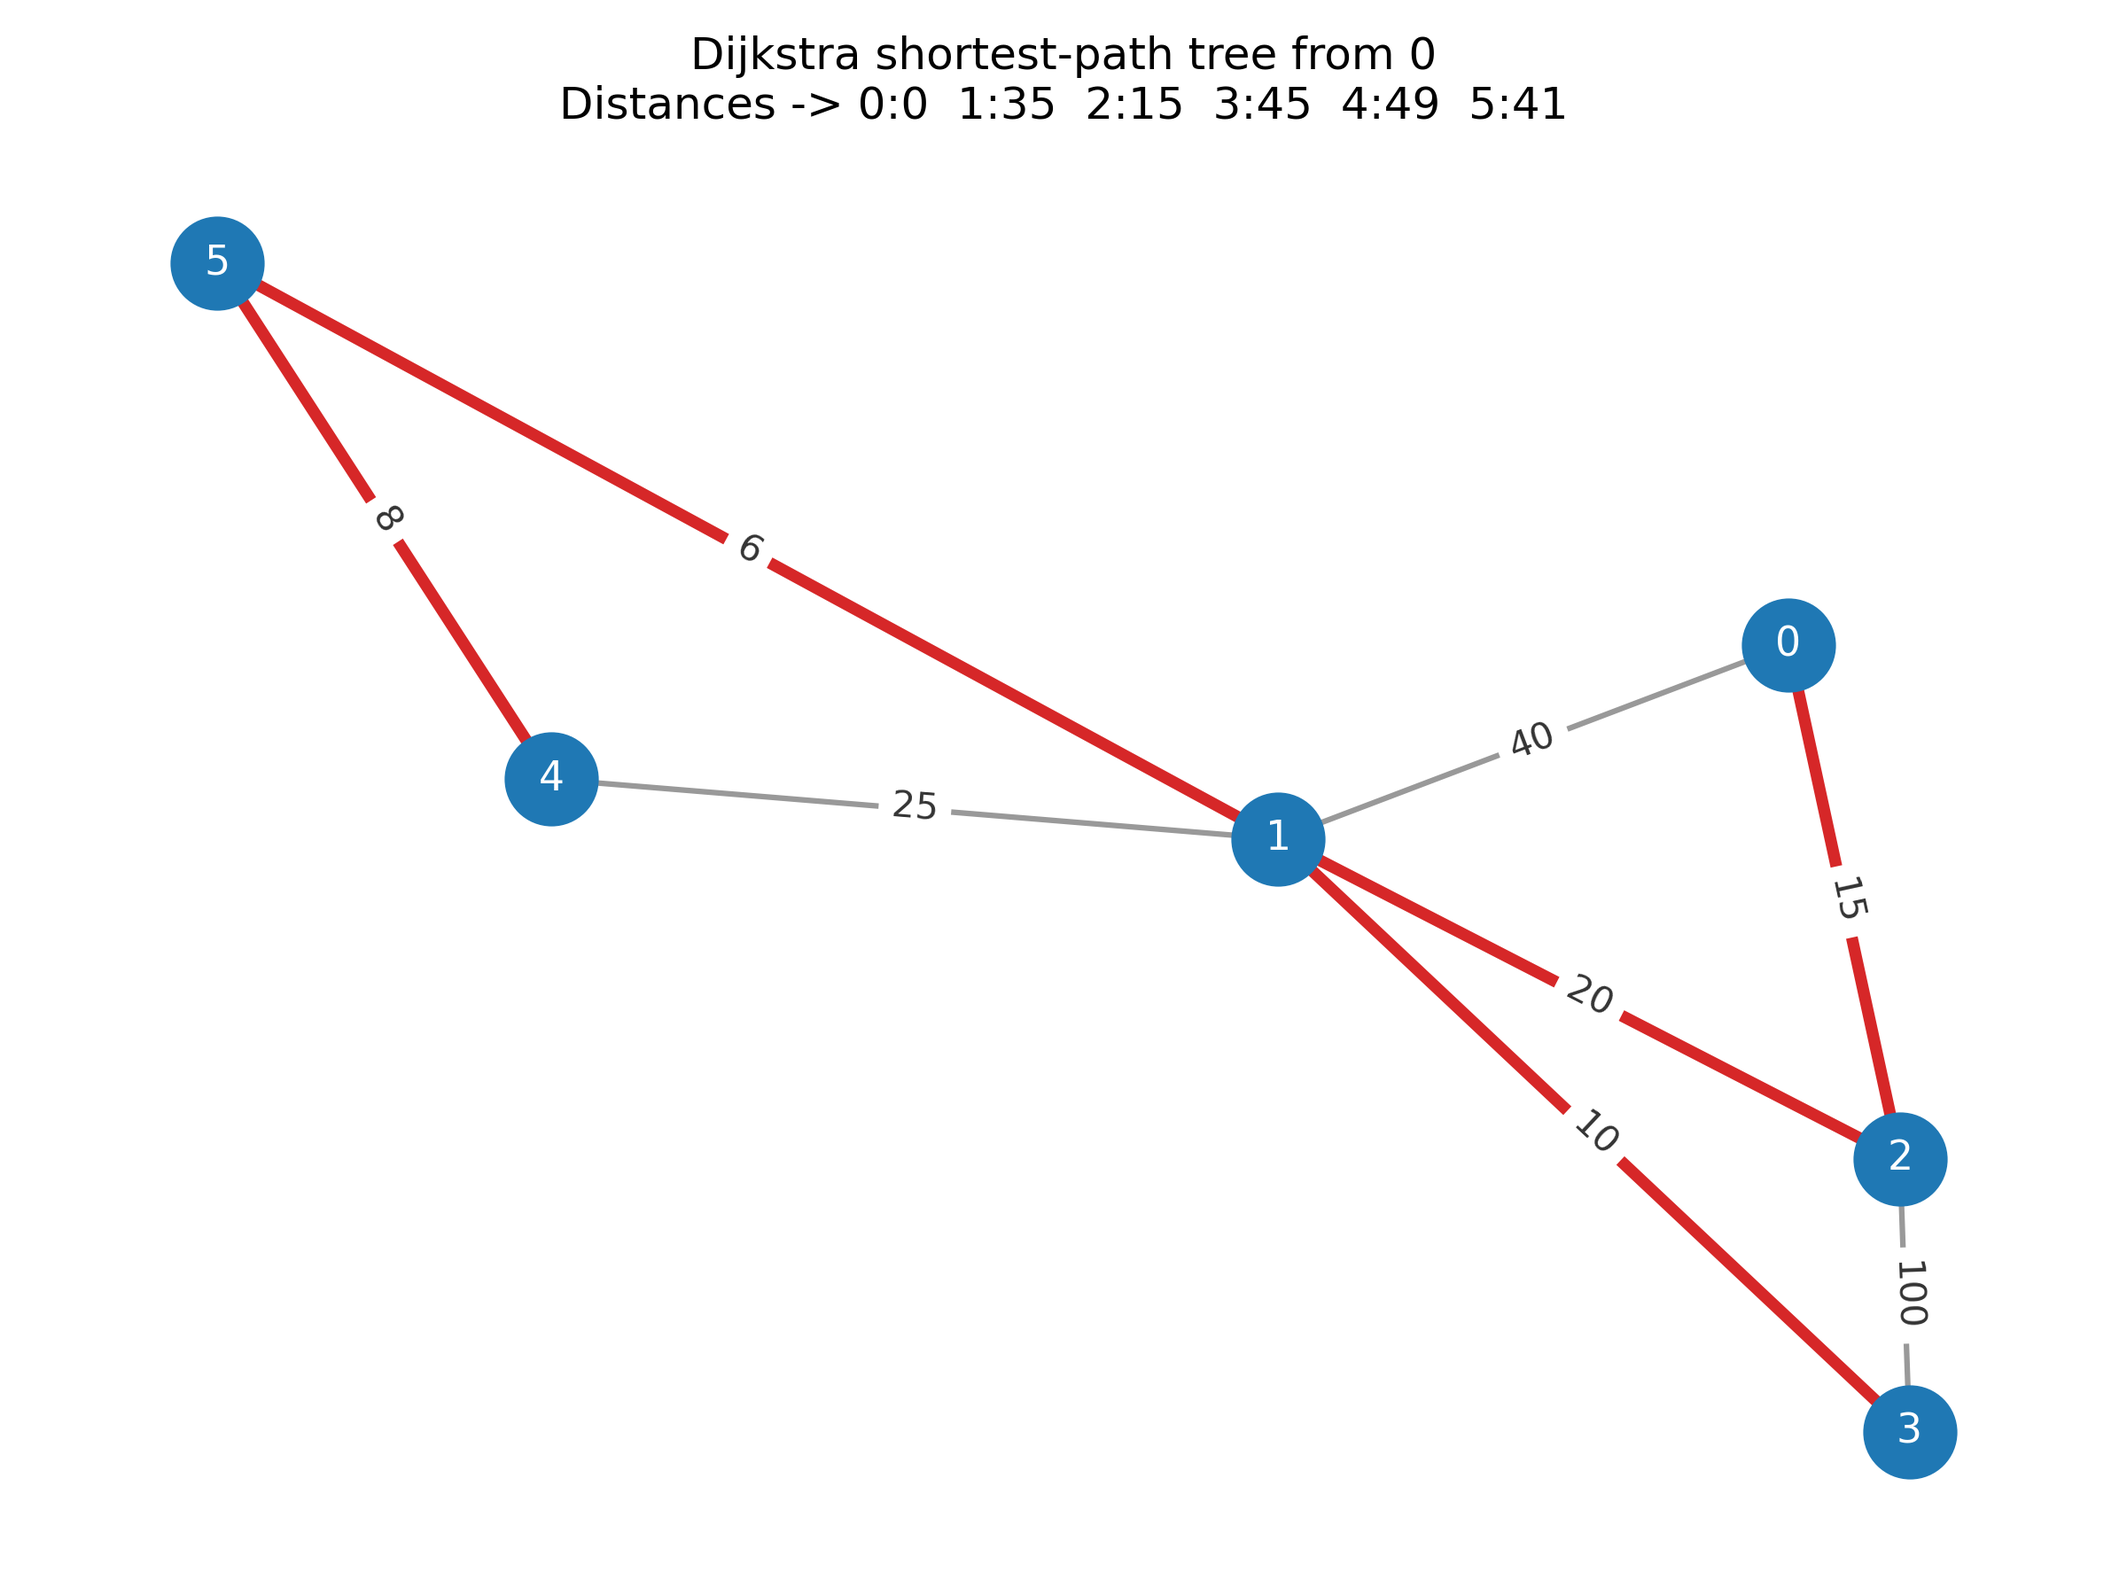
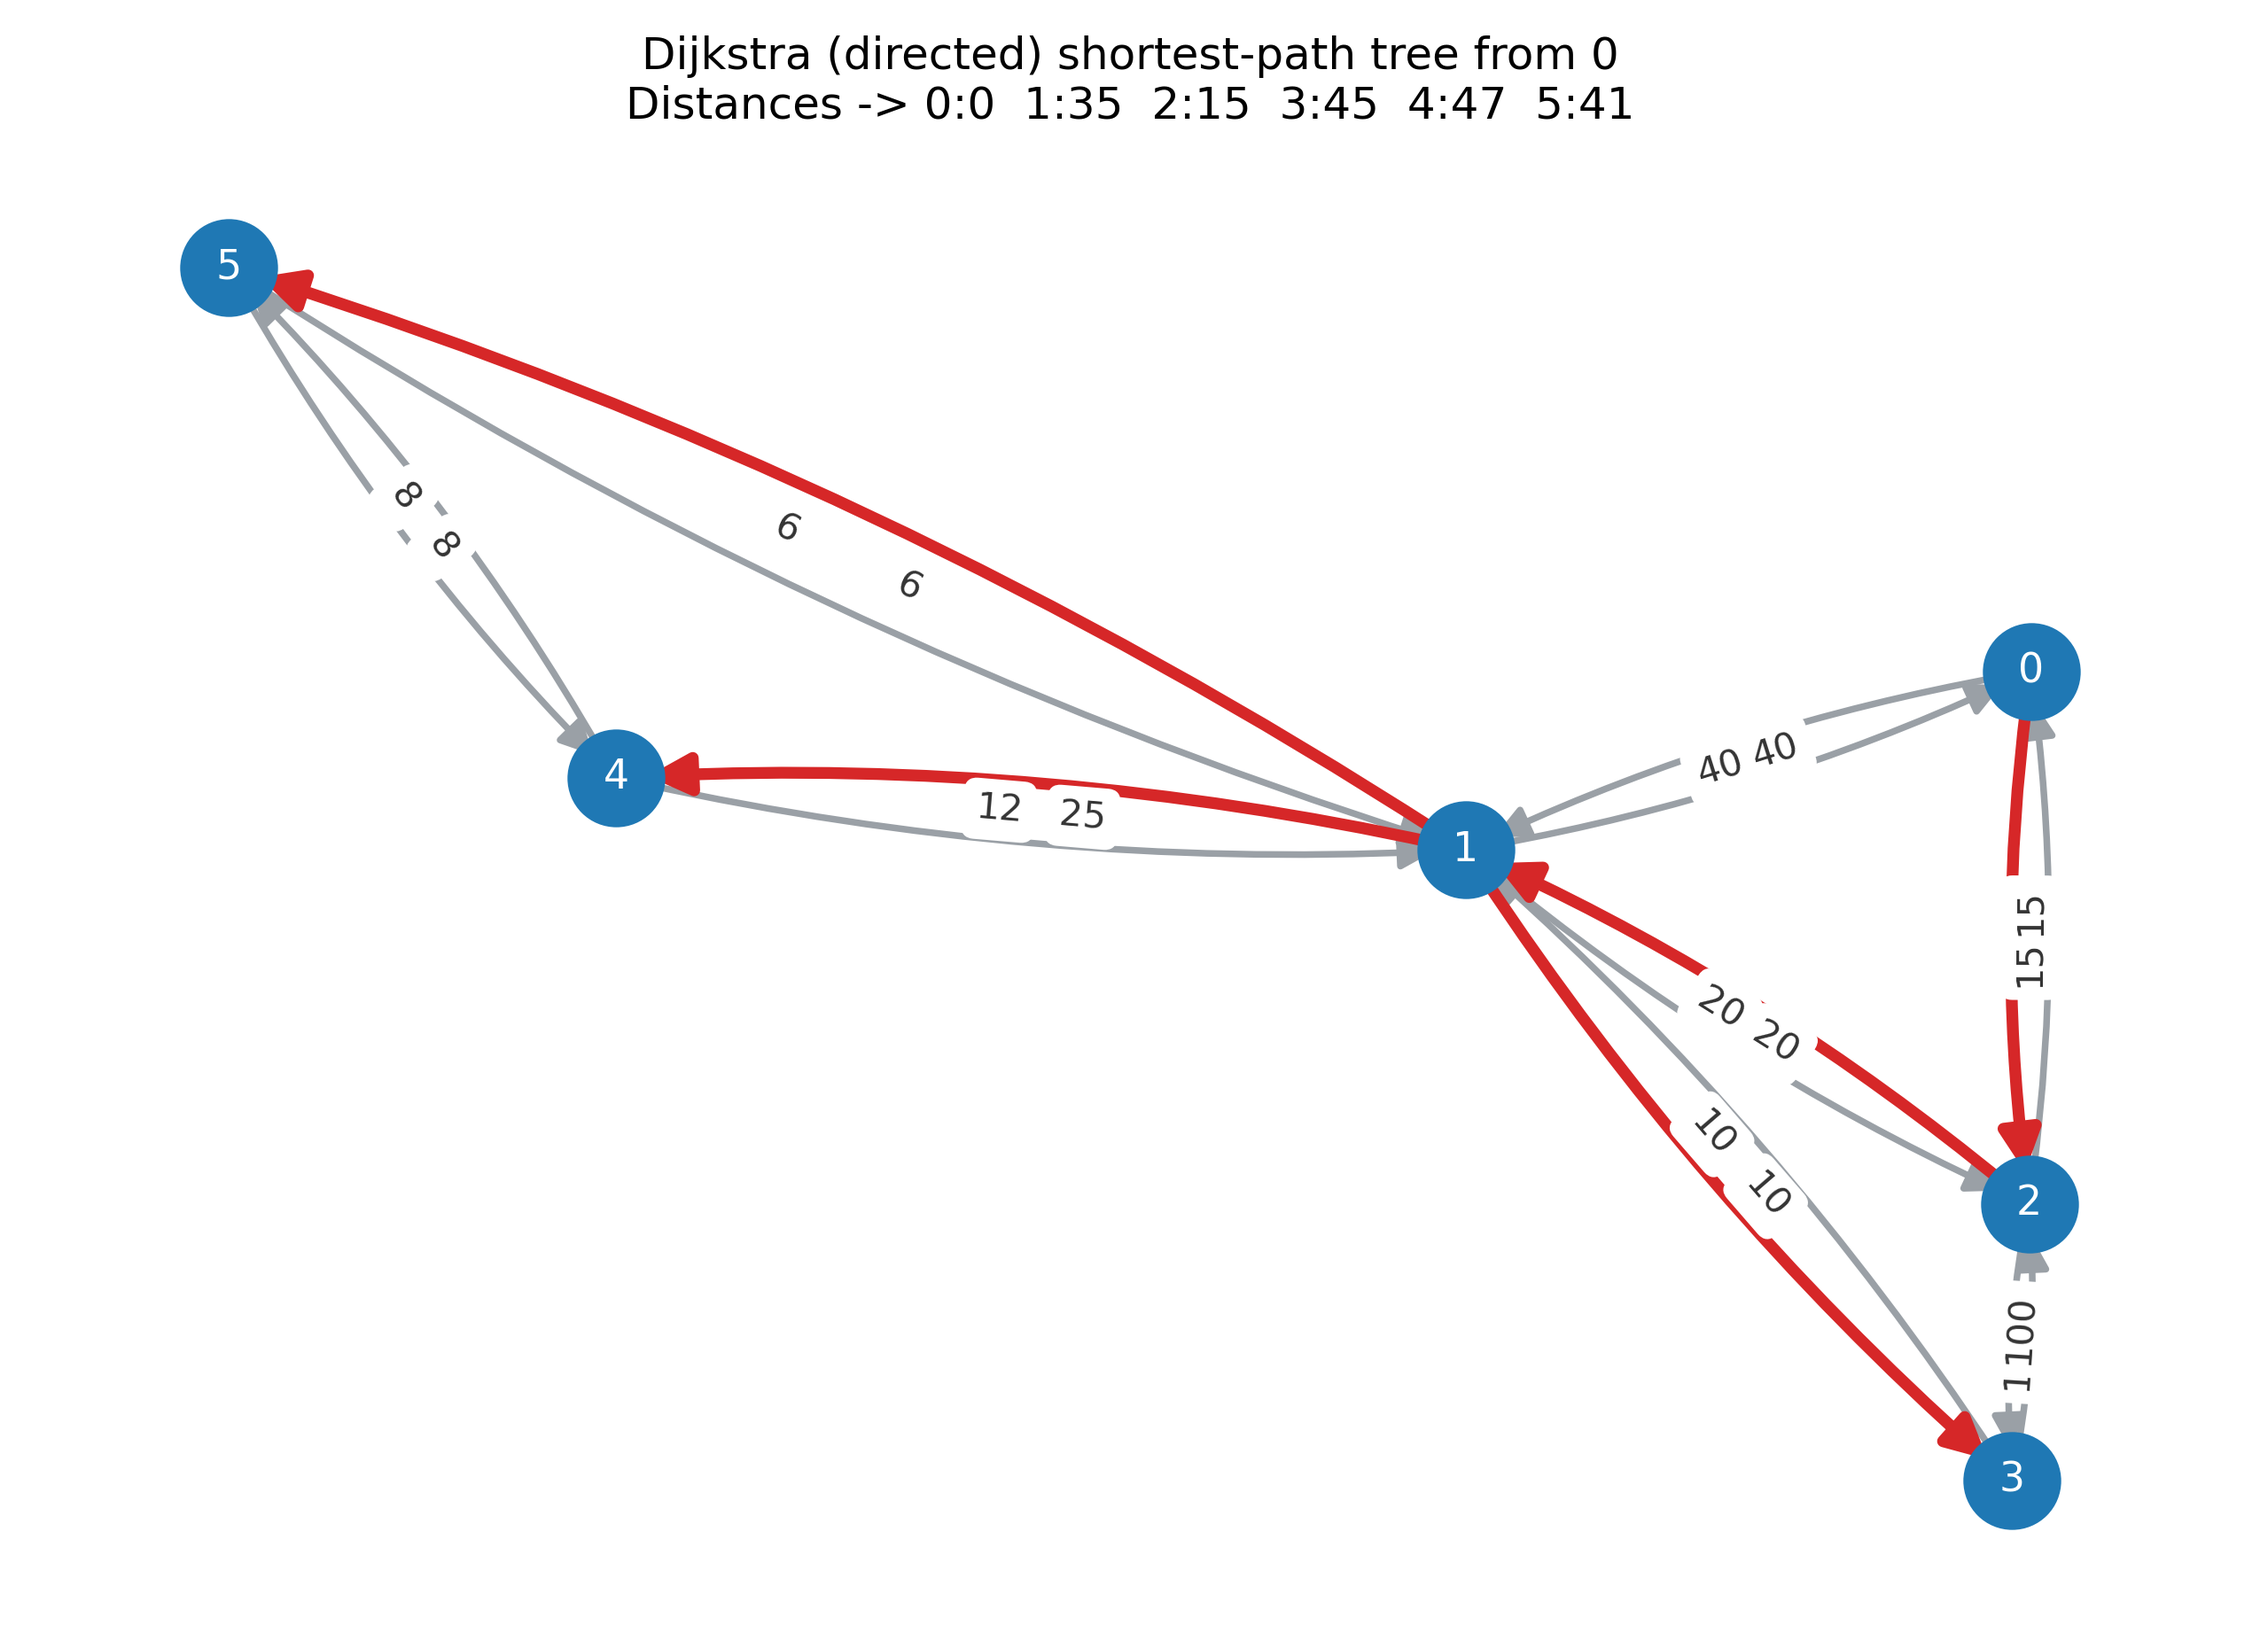
graph

Changed region(s): [[0.0938, 0.1244, 0.9375, 0.9333], [0.25, 0.0, 0.7188, 0.0933], [0.4375, 0.3422, 0.4688, 0.3733]]

diff --git a/dijkstra/dijkstra_graph_direction.py b/dijkstra/dijkstra_graph_direction.py
@@ -1,0 +1,115 @@
+#!/usr/bin/env python3
+# -*- coding: utf-8 -*-
+import math, heapq
+import numpy as np
+import matplotlib.pyplot as plt
+
+INF = math.inf
+
+# ---- あなたの OHD（非対称＝有向）を貼る ----
+OHD = np.array(
+    [
+        #  0    1    2    3    4    5
+        [  0, 40,  15, INF, INF, INF],  # 0
+        [ 40,  0,  20,  10,  25,   6],  # 1
+        [ 15, 20,   0, 100, INF, INF],  # 2
+        [INF, 10, 100,   0, INF, INF],  # 3
+        [INF, 12, INF, INF,   0,   8],  # 4  ← 1↔4 が非対称（1→4=25, 4→1=12）
+        [INF,  6, INF, INF,   8,   0],  # 5
+    ],
+    dtype=float,
+)
+SOURCE = 0
+
+
+# ---- Dijkstra（有向） ----
+def dijkstra_parent(dist_mat: np.ndarray, src: int):
+    n = dist_mat.shape[0]
+    dist = [INF] * n
+    parent = [-1] * n
+    dist[src] = 0.0
+    pq = [(0.0, src)]
+    seen = [False] * n
+    while pq:
+        d, u = heapq.heappop(pq)
+        if seen[u]:
+            continue
+        seen[u] = True
+        for v in range(n):
+            w = dist_mat[u, v]
+            if w == INF or w == 0:  # 自己ループ w=0 は無視
+                continue
+            nd = d + w
+            if nd < dist[v]:
+                dist[v] = nd
+                parent[v] = u
+                heapq.heappush(pq, (nd, v))
+    return dist, parent
+
+
+dist, parent = dijkstra_parent(OHD, SOURCE)
+
+# ---- 有向グラフを matplotlib だけで描画（簡易） ----
+if __name__ == "__main__":
+    import networkx as nx
+
+    G = nx.DiGraph()
+    n = OHD.shape[0]
+    for i in range(n):
+        for j in range(n):
+            if i != j and OHD[i, j] != INF:
+                G.add_edge(i, j, weight=OHD[i, j])
+
+    pos = nx.spring_layout(G, seed=7)
+
+    plt.figure(figsize=(8.5, 6.2))
+    nx.draw_networkx_nodes(G, pos, node_color="#1f78b4", node_size=650)
+    nx.draw_networkx_labels(G, pos, font_color="white", font_size=11)
+
+    # 最短経路木の有向辺集合（parent[v] -> v）
+    tree_edges = set()
+    for v in range(n):
+        if v != SOURCE and parent[v] != -1:
+            tree_edges.add((parent[v], v))
+
+    # 通常の矢印（グレー）
+    other_edges = [e for e in G.edges() if e not in tree_edges]
+    nx.draw_networkx_edges(
+        G,
+        pos,
+        edgelist=other_edges,
+        edge_color="#9aa0a6",
+        width=1.8,
+        arrows=True,
+        arrowsize=18,
+        connectionstyle="arc3,rad=0.07",
+    )
+
+    # 最短経路木の矢印（赤太線）
+    nx.draw_networkx_edges(
+        G,
+        pos,
+        edgelist=list(tree_edges),
+        edge_color="#d62728",
+        width=3.2,
+        arrows=True,
+        arrowsize=22,
+        connectionstyle="arc3,rad=0.07",
+    )
+
+    # 重みラベル（方向別に表示）
+    edge_labels = {(u, v): f"{int(G[u][v]['weight'])}" for (u, v) in G.edges()}
+    nx.draw_networkx_edge_labels(
+        G, pos, edge_labels=edge_labels, font_color="#333", font_size=10, label_pos=0.55
+    )
+
+    dist_str = "  ".join(
+        f"{i}:{'Inf' if math.isinf(d) else int(d)}" for i, d in enumerate(dist)
+    )
+    plt.title(
+        f"Dijkstra (directed) shortest-path tree from {SOURCE}\nDistances -> {dist_str}"
+    )
+    plt.axis("off")
+    plt.tight_layout()
+    plt.savefig("dijkstra_directed_graph.png", dpi=300)
+    plt.show()

diff --git a/dijkstra/dijkstra_graph.py b/dijkstra/dijkstra_graph.py
@@ -118,67 +118,6 @@ def draw_with_networkx():
     plt.show()
 
 
-def draw_without_networkx():
-    # very simple circular layout fallback
-    theta = np.linspace(0, 2 * math.pi, n, endpoint=False)
-    R = 1.0
-    pos = {i: (R * math.cos(t), R * math.sin(t)) for i, t in enumerate(theta)}
-
-    plt.figure(figsize=(7, 7))
-
-    # edges
-    tree_edges = set()
-    for v in range(n):
-        if v != SOURCE and parent[v] != -1:
-            a, b = sorted((v, parent[v]))
-            tree_edges.add((a, b))
-
-    for u, v in edges:
-        x = [pos[u][0], pos[v][0]]
-        y = [pos[u][1], pos[v][1]]
-        if (min(u, v), max(u, v)) in tree_edges:
-            plt.plot(x, y, color="#d62728", lw=3.0, zorder=1)
-        else:
-            plt.plot(x, y, color="#999999", lw=1.5, zorder=0)
-        # edge weight label (midpoint)
-        mx, my = (x[0] + x[1]) / 2, (y[0] + y[1]) / 2
-        plt.text(
-            mx,
-            my,
-            f"{int(weights[(min(u,v),max(u,v))])}",
-            color="#333333",
-            ha="center",
-            va="center",
-            fontsize=10,
-            bbox=dict(fc="white", ec="none", alpha=0.7),
-        )
-
-    # nodes
-    for i in range(n):
-        plt.scatter(pos[i][0], pos[i][1], s=600, c="#1f78b4", zorder=2)
-        plt.text(
-            pos[i][0],
-            pos[i][1],
-            str(i),
-            color="white",
-            ha="center",
-            va="center",
-            fontsize=11,
-        )
-
-    dist_str = "  ".join(
-        f"{i}:{(0 if math.isclose(d,0) else int(d))}" for i, d in enumerate(dist)
-    )
-    plt.title(f"Dijkstra shortest-path tree from {SOURCE}\nDistances -> {dist_str}")
-    plt.axis("off")
-    plt.tight_layout()
-    plt.savefig("dijkstra_graph.png", dpi=300)
-    plt.show()
-
-
-try:
+if __name__ == "__main__":
     import networkx as _nx  # noqa
-
     draw_with_networkx()
-except Exception:
-    draw_without_networkx()
